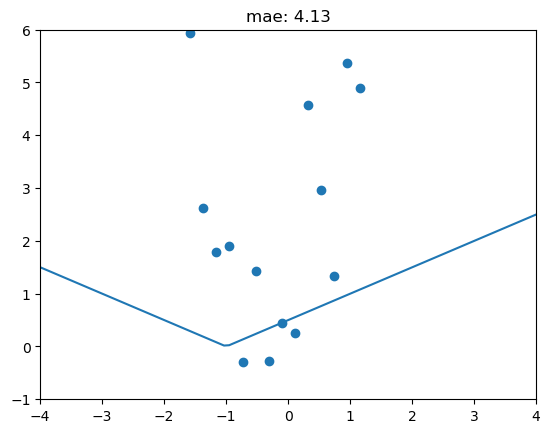
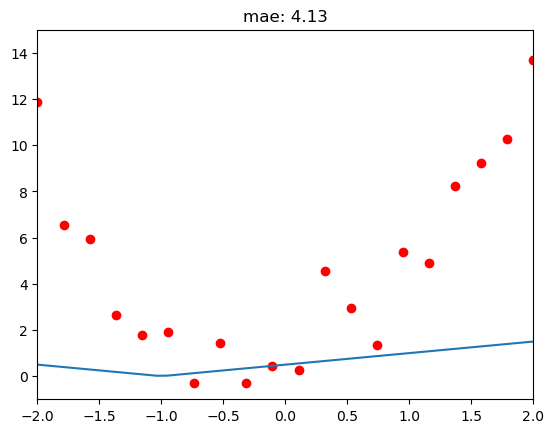
Built site for gh-pages

diff --git a/posts/2024-03-11-relu/index.html b/posts/2024-03-11-relu/index.html
@@ -251,7 +251,7 @@ window.Quarto = {
   <li><a href="#create-mae-calculate-and-loss-function" id="toc-create-mae-calculate-and-loss-function" class="nav-link" data-scroll-target="#create-mae-calculate-and-loss-function">4.3 Create MAE calculate and Loss Function</a></li>
   <li><a href="#loss-is-4.1318-with-original-input-tensor0.50.5-0.5-0.5" id="toc-loss-is-4.1318-with-original-input-tensor0.50.5-0.5-0.5" class="nav-link" data-scroll-target="#loss-is-4.1318-with-original-input-tensor0.50.5-0.5-0.5">4.4 Loss is <code>4.1318</code> with original input tensor([<code>0.5,0.5,-0.5,-0.5</code>])</a></li>
   <li><a href="#loss-with-gradient-descent-after-40-epochs" id="toc-loss-with-gradient-descent-after-40-epochs" class="nav-link" data-scroll-target="#loss-with-gradient-descent-after-40-epochs">4.5 <code>1.96</code> Loss with Gradient Descent after 40 epochs</a></li>
-  <li><a href="#mae-in-chart-is-2.03-instead-of-1.96-but-its-close-enough." id="toc-mae-in-chart-is-2.03-instead-of-1.96-but-its-close-enough." class="nav-link" data-scroll-target="#mae-in-chart-is-2.03-instead-of-1.96-but-its-close-enough.">4.6 MAE in chart is <code>2.03</code> instead of <code>1.96</code>, but its close enough.</a></li>
+  <li><a href="#predictions-blue-line-vs-data-red-dots" id="toc-predictions-blue-line-vs-data-red-dots" class="nav-link" data-scroll-target="#predictions-blue-line-vs-data-red-dots">4.6 Predictions (blue line) vs Data (red dots)</a></li>
   </ul></li>
   <li><a href="#completed" id="toc-completed" class="nav-link" data-scroll-target="#completed">5. Completed</a></li>
   </ul>
@@ -508,6 +508,8 @@ window.Quarto = {
 </section>
 <section id="loss-is-4.1318-with-original-input-tensor0.50.5-0.5-0.5" class="level2">
 <h2 class="anchored" data-anchor-id="loss-is-4.1318-with-original-input-tensor0.50.5-0.5-0.5">4.4 Loss is <code>4.1318</code> with original input tensor([<code>0.5,0.5,-0.5,-0.5</code>])</h2>
+<p>Original model predictions (blue line) are not great, not very close to our data (red dots)</p>
+<p>That makes sense since I arbitrarily chose the parameters of <code>0.5</code> and <code>-0.5</code></p>
 <div id="cell-26" class="cell" data-execution_count="20">
 <div class="sourceCode cell-code" id="cb17"><pre class="sourceCode python code-with-copy"><code class="sourceCode python"><span id="cb17-1"><a href="#cb17-1" aria-hidden="true" tabindex="-1"></a>m1b1_m2b2_tsr <span class="op">=</span> torch.tensor([<span class="fl">0.5</span>,<span class="fl">0.5</span>,<span class="op">-</span><span class="fl">0.5</span>,<span class="op">-</span><span class="fl">0.5</span>],requires_grad<span class="op">=</span><span class="va">True</span>)</span>
 <span id="cb17-2"><a href="#cb17-2" aria-hidden="true" tabindex="-1"></a>relu_2_loss_function(m1b1_m2b2_tsr)</span></code><button title="Copy to Clipboard" class="code-copy-button"><i class="bi"></i></button></pre></div>
@@ -515,7 +517,7 @@ window.Quarto = {
 <pre><code>tensor(4.1318, dtype=torch.float64, grad_fn=&lt;MeanBackward0&gt;)</code></pre>
 </div>
 </div>
-<div id="cell-27" class="cell" data-execution_count="52">
+<div id="cell-27" class="cell" data-execution_count="62">
 <div class="sourceCode cell-code" id="cb19"><pre class="sourceCode python code-with-copy"><code class="sourceCode python"><span id="cb19-1"><a href="#cb19-1" aria-hidden="true" tabindex="-1"></a><span class="co"># @interact(m1=0.5,b1=0.5,m2=-.5,b2=-.5)</span></span>
 <span id="cb19-2"><a href="#cb19-2" aria-hidden="true" tabindex="-1"></a><span class="kw">def</span> relu_dbl_interactive_plotter_fn(m1,b1,m2,b2):</span>
 <span id="cb19-3"><a href="#cb19-3" aria-hidden="true" tabindex="-1"></a>    xs_sgl_100_tsr <span class="op">=</span> torch.linspace(<span class="op">-</span><span class="fl">4.1</span>,<span class="fl">4.1</span>,steps<span class="op">=</span><span class="dv">100</span>)</span>
@@ -523,10 +525,10 @@ window.Quarto = {
 <span id="cb19-5"><a href="#cb19-5" aria-hidden="true" tabindex="-1"></a>    relu_dbl_m1b1m2b2_model <span class="op">=</span> relu_dbl_m1b1m2b2_fn(m1,b1,m2,b2)</span>
 <span id="cb19-6"><a href="#cb19-6" aria-hidden="true" tabindex="-1"></a>    ys_dbl_m1b1m2b2_100_tsr <span class="op">=</span> relu_dbl_m1b1m2b2_model(xs_sgl_100_tsr)</span>
 <span id="cb19-7"><a href="#cb19-7" aria-hidden="true" tabindex="-1"></a></span>
-<span id="cb19-8"><a href="#cb19-8" aria-hidden="true" tabindex="-1"></a>    plt.xlim((<span class="op">-</span><span class="dv">4</span>,<span class="dv">4</span>))</span>
-<span id="cb19-9"><a href="#cb19-9" aria-hidden="true" tabindex="-1"></a>    plt.ylim((<span class="op">-</span><span class="dv">1</span>,<span class="dv">6</span>))</span>
+<span id="cb19-8"><a href="#cb19-8" aria-hidden="true" tabindex="-1"></a>    plt.xlim((<span class="op">-</span><span class="dv">2</span>,<span class="dv">2</span>))</span>
+<span id="cb19-9"><a href="#cb19-9" aria-hidden="true" tabindex="-1"></a>    plt.ylim((<span class="op">-</span><span class="dv">1</span>,<span class="dv">15</span>))</span>
 <span id="cb19-10"><a href="#cb19-10" aria-hidden="true" tabindex="-1"></a>    plt.plot(xs_sgl_100_tsr, ys_dbl_m1b1m2b2_100_tsr)</span>
-<span id="cb19-11"><a href="#cb19-11" aria-hidden="true" tabindex="-1"></a>    plt.scatter(xs_20_tsr,ys_20_noisey_tsr)</span>
+<span id="cb19-11"><a href="#cb19-11" aria-hidden="true" tabindex="-1"></a>    plt.scatter(xs_20_tsr,ys_20_noisey_tsr, color<span class="op">=</span><span class="st">'r'</span>)</span>
 <span id="cb19-12"><a href="#cb19-12" aria-hidden="true" tabindex="-1"></a></span>
 <span id="cb19-13"><a href="#cb19-13" aria-hidden="true" tabindex="-1"></a>    <span class="co"># print(ys_20_noisey_tsr)</span></span>
 <span id="cb19-14"><a href="#cb19-14" aria-hidden="true" tabindex="-1"></a>    ys_dbl_preds_20_tsr <span class="op">=</span> relu_dbl_m1b1m2b2_model(xs_20_tsr)</span>
@@ -598,20 +600,20 @@ loss_40: 1.96 - [tensor([ 4.4251,  2.5245, -3.3031,  0.8250], requires_grad=True
 </div>
 </div>
 </section>
-<section id="mae-in-chart-is-2.03-instead-of-1.96-but-its-close-enough." class="level2">
-<h2 class="anchored" data-anchor-id="mae-in-chart-is-2.03-instead-of-1.96-but-its-close-enough.">4.6 MAE in chart is <code>2.03</code> instead of <code>1.96</code>, but its close enough.</h2>
-<p>Gotta figure out why it isnt matching exactly.</p>
-<div id="cell-31" class="cell" data-execution_count="56">
+<section id="predictions-blue-line-vs-data-red-dots" class="level2">
+<h2 class="anchored" data-anchor-id="predictions-blue-line-vs-data-red-dots">4.6 Predictions (blue line) vs Data (red dots)</h2>
+<p>New Parameters has created a Double ReLU predictions shaped closer to the Noisey Data as seen below!</p>
+<div id="cell-31" class="cell" data-execution_count="60">
 <div class="sourceCode cell-code" id="cb22"><pre class="sourceCode python code-with-copy"><code class="sourceCode python"><span id="cb22-1"><a href="#cb22-1" aria-hidden="true" tabindex="-1"></a><span class="kw">def</span> relu_dbl_interactive_plotter_fn(m1,b1,m2,b2):</span>
 <span id="cb22-2"><a href="#cb22-2" aria-hidden="true" tabindex="-1"></a>    xs_sgl_100_tsr <span class="op">=</span> torch.linspace(<span class="op">-</span><span class="fl">4.1</span>,<span class="fl">4.1</span>,steps<span class="op">=</span><span class="dv">100</span>)</span>
 <span id="cb22-3"><a href="#cb22-3" aria-hidden="true" tabindex="-1"></a>    </span>
 <span id="cb22-4"><a href="#cb22-4" aria-hidden="true" tabindex="-1"></a>    relu_dbl_m1b1m2b2_model <span class="op">=</span> relu_dbl_m1b1m2b2_fn(m1,b1,m2,b2)</span>
 <span id="cb22-5"><a href="#cb22-5" aria-hidden="true" tabindex="-1"></a>    ys_dbl_m1b1m2b2_100_tsr <span class="op">=</span> relu_dbl_m1b1m2b2_model(xs_sgl_100_tsr)</span>
 <span id="cb22-6"><a href="#cb22-6" aria-hidden="true" tabindex="-1"></a></span>
-<span id="cb22-7"><a href="#cb22-7" aria-hidden="true" tabindex="-1"></a>    plt.xlim((<span class="op">-</span><span class="dv">4</span>,<span class="dv">4</span>))</span>
-<span id="cb22-8"><a href="#cb22-8" aria-hidden="true" tabindex="-1"></a>    plt.ylim((<span class="op">-</span><span class="dv">1</span>,<span class="dv">6</span>))</span>
+<span id="cb22-7"><a href="#cb22-7" aria-hidden="true" tabindex="-1"></a>    plt.xlim((<span class="op">-</span><span class="dv">2</span>,<span class="dv">2</span>))</span>
+<span id="cb22-8"><a href="#cb22-8" aria-hidden="true" tabindex="-1"></a>    plt.ylim((<span class="op">-</span><span class="dv">1</span>,<span class="dv">15</span>))</span>
 <span id="cb22-9"><a href="#cb22-9" aria-hidden="true" tabindex="-1"></a>    plt.plot(xs_sgl_100_tsr, ys_dbl_m1b1m2b2_100_tsr)</span>
-<span id="cb22-10"><a href="#cb22-10" aria-hidden="true" tabindex="-1"></a>    plt.scatter(xs_20_tsr,ys_20_noisey_tsr)</span>
+<span id="cb22-10"><a href="#cb22-10" aria-hidden="true" tabindex="-1"></a>    plt.scatter(xs_20_tsr,ys_20_noisey_tsr, color<span class="op">=</span><span class="st">'r'</span>)</span>
 <span id="cb22-11"><a href="#cb22-11" aria-hidden="true" tabindex="-1"></a></span>
 <span id="cb22-12"><a href="#cb22-12" aria-hidden="true" tabindex="-1"></a>    <span class="co"># print(ys_20_noisey_tsr)</span></span>
 <span id="cb22-13"><a href="#cb22-13" aria-hidden="true" tabindex="-1"></a>    ys_dbl_preds_20_tsr <span class="op">=</span> relu_dbl_m1b1m2b2_model(xs_20_tsr)</span>
@@ -631,6 +633,7 @@ loss_40: 1.96 - [tensor([ 4.4251,  2.5245, -3.3031,  0.8250], requires_grad=True
 <section id="completed" class="level1">
 <h1>5. Completed</h1>
 <p>I managed to apply <code>gradient descent</code> to a <code>double relu</code> and reduce errror by 50%, not bad!</p>
+<p>In a future post, I’ll fit more ReLUs to see how close we can get to our data.</p>
 
 
 </section>

diff --git a/index.html b/index.html
@@ -208,7 +208,7 @@ window.Quarto = {
 
 <div class="quarto-listing quarto-listing-container-default" id="listing-listing">
 <div class="list quarto-listing-default">
-<div class="quarto-post image-right" data-index="0" data-categories="basics" data-listing-date-sort="1710176400000" data-listing-file-modified-sort="1710262047921" data-listing-date-modified-sort="NaN" data-listing-reading-time-sort="2" data-listing-word-count-sort="302">
+<div class="quarto-post image-right" data-index="0" data-categories="basics" data-listing-date-sort="1710176400000" data-listing-file-modified-sort="1710262592571" data-listing-date-modified-sort="NaN" data-listing-reading-time-sort="2" data-listing-word-count-sort="350">
 <div class="thumbnail">
 <p><a href="./posts/2024-03-11-relu/index.html" class="no-external"></a></p><a href="./posts/2024-03-11-relu/index.html" class="no-external">
 <p><img src="./posts/2024-03-11-relu/relu.jpg" class="thumbnail-image"></p>
